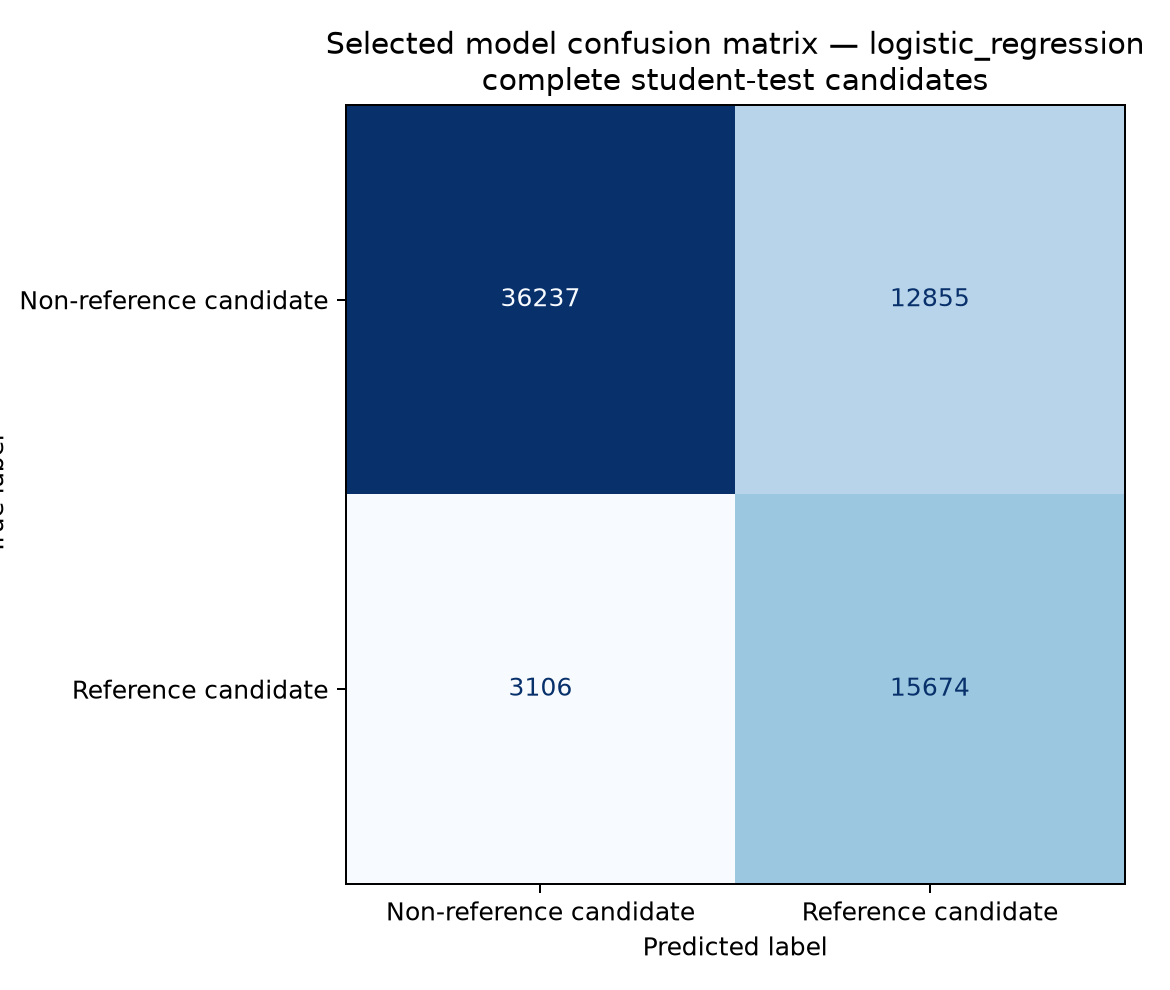
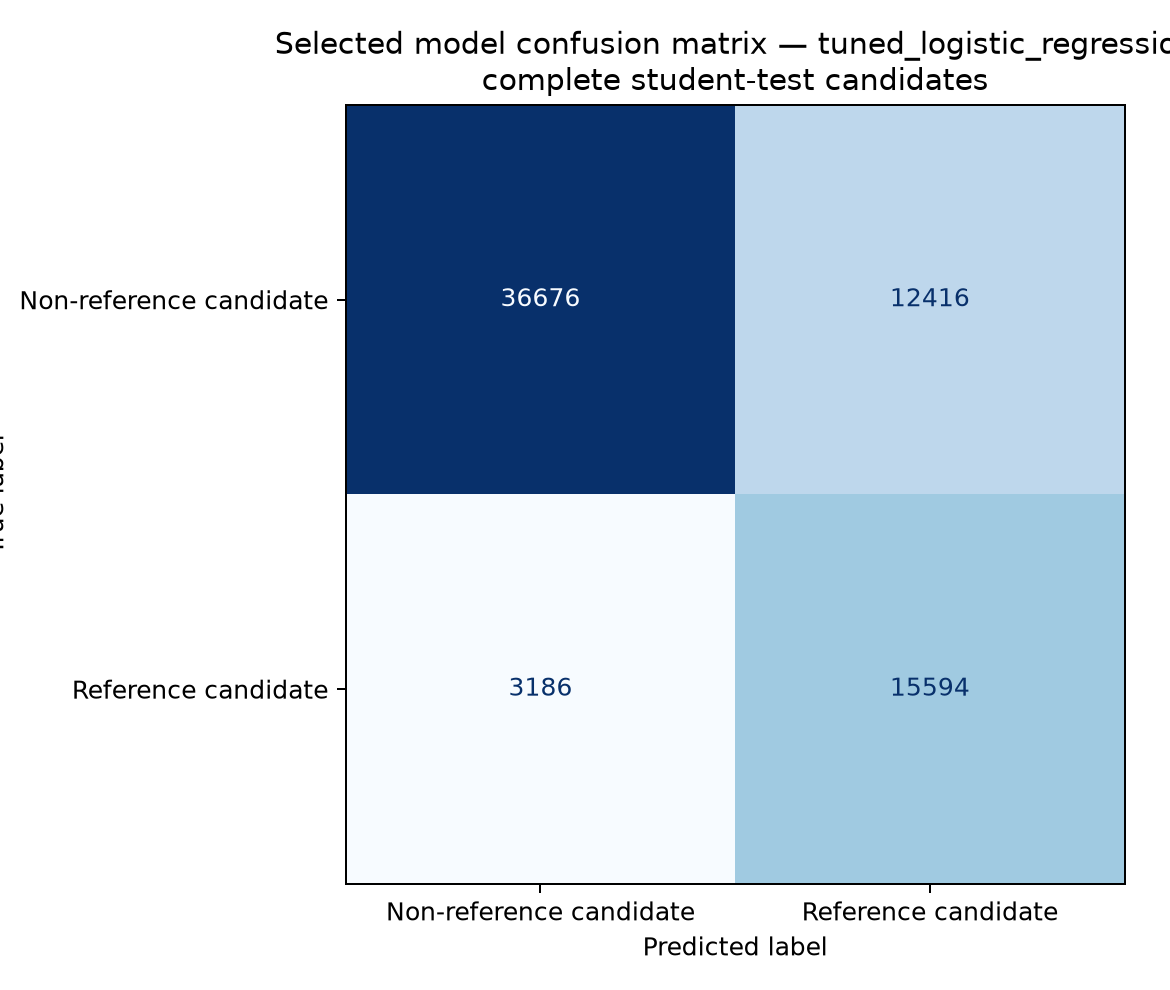
Complete corrected Bayesian optimization

Changed region(s): [[0.2154, 0.0303, 1.0, 0.0606], [0.4615, 0.2727, 0.4923, 0.3333], [0.8, 0.2727, 0.8308, 0.303]]

diff --git a/pathsnap/ml_pipeline/corrected_optimization.py b/pathsnap/ml_pipeline/corrected_optimization.py
@@ -1,0 +1,156 @@
+"""Corrected Bayesian optimization for the selected Logistic Regression model.
+
+The candidate tables are complete. Optuna only sees grouped validation scores;
+negative sampling is performed inside each fold's training partition.
+"""
+
+from __future__ import annotations
+
+import argparse
+import json
+import time
+from pathlib import Path
+
+import numpy as np
+import pandas as pd
+import matplotlib
+
+matplotlib.use("Agg")
+import matplotlib.pyplot as plt
+from sklearn.base import clone
+from sklearn.linear_model import LogisticRegression
+from sklearn.metrics import ConfusionMatrixDisplay, confusion_matrix
+from sklearn.pipeline import Pipeline
+from sklearn.preprocessing import StandardScaler
+
+from pathsnap.data_pipeline.features import FEATURE_NAMES
+from pathsnap.ml_pipeline.artifacts import export_model
+from pathsnap.ml_pipeline.corrected_experiment import complete_partition, evaluate_candidate_rows, sample_training_rows
+
+
+def _model(params: dict, seed: int) -> Pipeline:
+    return Pipeline([
+        ("scale", StandardScaler()),
+        ("model", LogisticRegression(
+            C=float(params["C"]),
+            class_weight=params["class_weight"],
+            max_iter=int(params["max_iter"]),
+            random_state=seed,
+        )),
+    ])
+
+
+def run(root: Path, output_dir: Path, trials: int = 12, folds: int = 3, seed: int = 42, negatives_per_observation: int = 1, max_candidates: int = 4) -> dict:
+    import optuna
+    from sklearn.model_selection import GroupKFold
+
+    train, train_observations = complete_partition(root, "train", max_candidates)
+    student, student_observations = complete_partition(root, "student_test", max_candidates)
+    splitter = GroupKFold(n_splits=folds)
+    output_dir.mkdir(parents=True, exist_ok=True)
+    fold_indices = list(splitter.split(train, train["target"], train["trip_id"]))
+
+    def objective(trial: optuna.Trial) -> float:
+        params = {
+            "C": trial.suggest_float("C", 1e-3, 1e2, log=True),
+            "class_weight": trial.suggest_categorical("class_weight", ["balanced", None]),
+            "max_iter": trial.suggest_int("max_iter", 200, 800, step=100),
+        }
+        scores = []
+        for train_index, validation_index in fold_indices:
+            fold_train = sample_training_rows(train.iloc[train_index], negatives_per_observation)
+            model = _model(params, seed)
+            model.fit(fold_train.loc[:, FEATURE_NAMES], fold_train["target"])
+            validation = train.iloc[validation_index]
+            validation_obs = train_observations[train_observations["trip_id"].isin(validation["trip_id"].unique())]
+            scores.append(evaluate_candidate_rows(model, validation, validation_obs)["macro_f1"])
+        return float(np.mean(scores))
+
+    sampler = optuna.samplers.TPESampler(seed=seed)
+    study = optuna.create_study(direction="maximize", sampler=sampler)
+    started = time.perf_counter()
+    study.optimize(objective, n_trials=trials)
+    elapsed = time.perf_counter() - started
+    study.trials_dataframe().to_csv(output_dir / "corrected_logistic_optuna_trials.csv", index=False)
+
+    baseline_params = {"C": 1.0, "class_weight": "balanced", "max_iter": 400}
+    tuned_params = study.best_params
+    baseline_scores = []
+    tuned_scores = []
+    for train_index, validation_index in fold_indices:
+        fold_train = sample_training_rows(train.iloc[train_index], negatives_per_observation)
+        validation = train.iloc[validation_index]
+        validation_obs = train_observations[train_observations["trip_id"].isin(validation["trip_id"].unique())]
+        baseline = _model(baseline_params, seed)
+        tuned = _model(tuned_params, seed)
+        baseline.fit(fold_train.loc[:, FEATURE_NAMES], fold_train["target"])
+        tuned.fit(fold_train.loc[:, FEATURE_NAMES], fold_train["target"])
+        baseline_scores.append(evaluate_candidate_rows(baseline, validation, validation_obs)["macro_f1"])
+        tuned_scores.append(evaluate_candidate_rows(tuned, validation, validation_obs)["macro_f1"])
+
+    baseline_model = _model(baseline_params, seed)
+    tuned_model = _model(tuned_params, seed)
+    final_train = sample_training_rows(train, negatives_per_observation)
+    baseline_model.fit(final_train.loc[:, FEATURE_NAMES], final_train["target"])
+    tuned_model.fit(final_train.loc[:, FEATURE_NAMES], final_train["target"])
+    baseline_student = evaluate_candidate_rows(baseline_model, student, student_observations)
+    tuned_student = evaluate_candidate_rows(tuned_model, student, student_observations)
+    comparison = pd.DataFrame([
+        {"model": "baseline_logistic_regression", "cv_macro_f1": float(np.mean(baseline_scores)), **baseline_student},
+        {"model": "tuned_logistic_regression", "cv_macro_f1": float(np.mean(tuned_scores)), **tuned_student},
+    ])
+    comparison.to_csv(output_dir / "corrected_logistic_tuned_vs_baseline.csv", index=False)
+    selected = "tuned_logistic_regression" if comparison.loc[1, "cv_macro_f1"] > comparison.loc[0, "cv_macro_f1"] else "baseline_logistic_regression"
+    selected_model = tuned_model if selected == "tuned_logistic_regression" else baseline_model
+    export_model(selected_model, output_dir / "selected_model.joblib", FEATURE_NAMES, {"model_name": selected, "selection_metric": "mean_grouped_cv_macro_f1_after_bayesian_optimization", "candidate_radius_m": 50.0, "max_candidates": max_candidates, "training_sampling": f"all positives plus {negatives_per_observation} negatives per observation"})
+    scores = selected_model.predict_proba(student.loc[:, FEATURE_NAMES])[:, list(selected_model.classes_).index(1)]
+    matrix = confusion_matrix(student["target"], (scores >= 0.5).astype(int), labels=[0, 1])
+    fig, ax = plt.subplots(figsize=(6.5, 5.5))
+    ConfusionMatrixDisplay(matrix, display_labels=["Non-reference candidate", "Reference candidate"]).plot(ax=ax, cmap="Blues", values_format="d", colorbar=False)
+    ax.set_title(f"Selected model confusion matrix — {selected}\ncomplete student-test candidates")
+    fig.tight_layout()
+    fig.savefig(output_dir / "confusion_matrix.png", dpi=180)
+    plt.close(fig)
+    (output_dir / "training_summary.md").write_text(
+        "# Corrected Bayesian-optimized experiment\n\n" + comparison.to_markdown(index=False) +
+        f"\n\nSelected model: **{selected}**, chosen by mean 3-fold GroupKFold validation Macro F1 after Bayesian optimization. "
+        "Negative sampling was used only for training folds/final fit; validation and student-test candidates were complete. "
+        "Zero-candidate observations are reported separately and count as incorrect in all-observation Top-1 accuracy.\n",
+        encoding="utf-8",
+    )
+    summary = {
+        "method": "Optuna TPE with complete-candidate GroupKFold validation",
+        "model": "logistic_regression",
+        "trials": trials,
+        "seed": seed,
+        "folds": folds,
+        "candidate_radius_m": 50.0,
+        "max_candidates": max_candidates,
+        "training_negatives_per_observation": negatives_per_observation,
+        "validation_negative_sampling": None,
+        "student_negative_sampling": None,
+        "best_params": tuned_params,
+        "best_trial_value": float(study.best_value),
+        "baseline_cv_macro_f1": float(np.mean(baseline_scores)),
+        "tuned_cv_macro_f1": float(np.mean(tuned_scores)),
+        "selected_model_artifact": selected,
+        "optimization_seconds": elapsed,
+    }
+    (output_dir / "corrected_logistic_optimization.json").write_text(json.dumps(summary, indent=2), encoding="utf-8")
+    return summary
+
+
+def main() -> None:
+    parser = argparse.ArgumentParser(description=__doc__)
+    parser.add_argument("--data-root", required=True, type=Path)
+    parser.add_argument("--output-dir", default="results/corrected_models", type=Path)
+    parser.add_argument("--trials", default=12, type=int)
+    parser.add_argument("--folds", default=3, type=int)
+    parser.add_argument("--negatives-per-observation", default=1, type=int)
+    parser.add_argument("--max-candidates", default=4, type=int)
+    args = parser.parse_args()
+    print(json.dumps(run(args.data_root, args.output_dir, args.trials, args.folds, negatives_per_observation=args.negatives_per_observation, max_candidates=args.max_candidates), indent=2))
+
+
+if __name__ == "__main__":
+    main()

diff --git a/reports/build_report.py b/reports/build_report.py
@@ -19,6 +19,7 @@ ROOT = Path(__file__).resolve().parents[1]
 def build() -> Path:
     output = ROOT / "reports" / "pathsnap_technical_report.pdf"
     comparison = pd.read_csv(ROOT / "results" / "corrected_models" / "model_comparison.csv")
+    tuned = pd.read_csv(ROOT / "results" / "corrected_models" / "corrected_logistic_tuned_vs_baseline.csv")
     styles = getSampleStyleSheet()
     styles.add(ParagraphStyle(name="ReportTitle", parent=styles["Title"], alignment=TA_CENTER, spaceAfter=18))
     styles.add(ParagraphStyle(name="Small", parent=styles["BodyText"], fontSize=8, leading=10))
@@ -38,7 +39,8 @@ def build() -> Path:
         data.append([str(row["model"]).replace("_", " ").title(), f"{row['cv_macro_f1']:.6f}", f"{row['macro_f1']:.6f}", f"{row['top1_accuracy_all_observations']:.6f}", f"{row['log_loss']:.6f}", f"{row['inference_ms_per_candidate']:.6f}"])
     table = Table(data, repeatRows=1, colWidths=[1.35 * inch, .9 * inch, 1.05 * inch, 1.0 * inch, .75 * inch, .9 * inch])
     table.setStyle(TableStyle([("BACKGROUND", (0, 0), (-1, 0), colors.HexColor("#1f4e79")), ("TEXTCOLOR", (0, 0), (-1, 0), colors.white), ("GRID", (0, 0), (-1, -1), .25, colors.grey), ("FONTSIZE", (0, 0), (-1, -1), 7), ("ALIGN", (1, 1), (-1, -1), "RIGHT")]))
-    story.extend([table, Spacer(1, 8), Paragraph("Logistic Regression is selected by the highest corrected CV Macro F1 (0.7295715568). Student metrics support the choice but do not define it.", styles["BodyText"]), PageBreak()])
+    tuned_row = tuned.loc[tuned["model"].eq("tuned_logistic_regression")].iloc[0]
+    story.extend([table, Spacer(1, 8), Paragraph(f"Corrected Bayesian optimization improved Logistic Regression CV Macro F1 from {tuned.loc[tuned['model'].eq('baseline_logistic_regression'), 'cv_macro_f1'].iloc[0]:.6f} to {tuned_row['cv_macro_f1']:.6f}. The tuned artifact is selected; its student Macro F1 is {tuned_row['macro_f1']:.6f} and complete-candidate Top-1 is {tuned_row['top1_accuracy_all_observations']:.6f}.", styles["BodyText"]), PageBreak()])
     story.extend([Paragraph("4. HMM/Viterbi and limitations", styles["Heading2"]), Paragraph("Hidden states are candidate arc IDs. Emissions combine classifier probability with distance; transitions reward same-arc and directed-connected moves, while disconnected transitions receive a finite penalty. Empty candidate groups produce null outputs and reset decoding. Reference labels are a nearest-route-arc heuristic, so parallel roads, GPS noise, incomplete routes, and repeated arcs remain limitations. See docs/label_quality.md and results/corrected_models/label_quality.csv.", styles["BodyText"]), Spacer(1, 10)])
     for image_path, caption in [(ROOT / "results" / "corrected_models" / "model_comparison.png", "Corrected CV Macro F1 comparison"), (ROOT / "results" / "plots" / "gps_speed_distribution.png", "GPS speed distribution"), (ROOT / "results" / "plots" / "gps_matched_route_map.png", "Folium map screenshot; interactive HTML is committed separately")]:
         if image_path.exists():

diff --git a/results/corrected_models/training_summary.md b/results/corrected_models/training_summary.md
@@ -1,11 +1,8 @@
-# Corrected five-model experiment
+# Corrected Bayesian-optimized experiment
 
-| model                  |   cv_macro_f1 |   accuracy |   precision |   recall |   macro_f1 |   top1_accuracy_with_candidates |   top1_accuracy_all_observations |   candidate_miss_rate |   zero_candidate_observations |   total_observations |   candidate_rows |   log_loss |   inference_ms_per_candidate |   training_seconds |
-|:-----------------------|--------------:|-----------:|------------:|---------:|-----------:|--------------------------------:|---------------------------------:|----------------------:|------------------------------:|---------------------:|-----------------:|-----------:|-----------------------------:|-------------------:|
-| logistic_regression    |      0.729572 |   0.764837 |    0.549406 | 0.834611 |   0.74107  |                        0.763518 |                         0.763518 |              0.019833 |                             0 |                19160 |            67872 |    0.4628  |                  0.00115187  |            3.06881 |
-| hist_gradient_boosting |      0.450623 |   0.472566 |    0.323684 | 0.831789 |   0.472487 |                        0.233925 |                         0.233925 |              0.019833 |                             0 |                19160 |            67872 |    3.56533 |                  0.00435174  |           19.7451  |
-| mlp                    |      0.450534 |   0.468942 |    0.322262 | 0.833387 |   0.46891  |                        0.234812 |                         0.234812 |              0.019833 |                             0 |                19160 |            67872 |    3.72035 |                  0.000956462 |           35.8556  |
-| knn                    |      0.448107 |   0.464256 |    0.315965 | 0.803674 |   0.464052 |                        0.430271 |                         0.430271 |              0.019833 |                             0 |                19160 |            67872 |   15.5425  |                  0.136254    |          105.484   |
-| random_forest          |      0.446602 |   0.466702 |    0.320031 | 0.824547 |   0.466644 |                        0.325992 |                         0.325992 |              0.019833 |                             0 |                19160 |            67872 |    4.97179 |                  0.00380225  |           45.8529  |
+| model                        |   cv_macro_f1 |   accuracy |   precision |   recall |   macro_f1 |   top1_accuracy_with_candidates |   top1_accuracy_all_observations |   candidate_miss_rate |   zero_candidate_observations |   total_observations |   candidate_rows |   log_loss |
+|:-----------------------------|--------------:|-----------:|------------:|---------:|-----------:|--------------------------------:|---------------------------------:|----------------------:|------------------------------:|---------------------:|-----------------:|-----------:|
+| baseline_logistic_regression |      0.729572 |   0.764837 |    0.549406 | 0.834611 |   0.74107  |                        0.763518 |                         0.763518 |              0.019833 |                             0 |                19160 |            67872 |   0.4628   |
+| tuned_logistic_regression    |      0.733687 |   0.770126 |    0.55673  | 0.830351 |   0.745579 |                        0.764301 |                         0.764301 |              0.019833 |                             0 |                19160 |            67872 |   0.456162 |
 
-Selected model: **logistic_regression**, chosen by mean 3-fold GroupKFold validation Macro F1. Training negatives were sampled only inside each training fold/final fit; validation and student-test candidates were complete. Zero-candidate observations are reported separately and count as incorrect in 	op1_accuracy_all_observations.
+Selected model: **tuned_logistic_regression**, chosen by mean 3-fold GroupKFold validation Macro F1 after Bayesian optimization. Negative sampling was used only for training folds/final fit; validation and student-test candidates were complete. Zero-candidate observations are reported separately and count as incorrect in all-observation Top-1 accuracy.

diff --git a/docs/corrected_bayesian_optimization.md b/docs/corrected_bayesian_optimization.md
@@ -1,0 +1,31 @@
+# Corrected Bayesian optimization
+
+Bayesian optimization was completed after the corrected five-model baseline. It optimizes the selected Logistic
+Regression family rather than the historical HGB experiment. Optuna TPE uses seed 42 and 3-fold GroupKFold grouped by
+trip ID. Each trial samples negatives only from its training fold; validation and student-test frames remain complete.
+
+Search space:
+
+- `C`: log-uniform from `1e-3` to `1e2`
+- `class_weight`: `balanced` or `None`
+- `max_iter`: 200–800 in steps of 100
+
+The raw trial log is [corrected_logistic_optuna_trials.csv](../results/corrected_models/corrected_logistic_optuna_trials.csv).
+The summary and exact best parameters are [corrected_logistic_optimization.json](../results/corrected_models/corrected_logistic_optimization.json),
+and the complete comparison is [corrected_logistic_tuned_vs_baseline.csv](../results/corrected_models/corrected_logistic_tuned_vs_baseline.csv).
+
+The corrected baseline remains the selected artifact unless the tuned model improves mean grouped validation Macro F1;
+the selection decision is recorded in the JSON summary and model manifest. The earlier HGB Optuna outputs under
+`results/optimization/` are preserved as historical evidence and are not mixed into this corrected comparison.
+
+Reproduce with:
+
+```powershell
+python -m pathsnap.ml_pipeline.corrected_optimization `
+  --data-root "Student folder\Student folder" `
+  --output-dir results\corrected_models `
+  --trials 12 `
+  --folds 3 `
+  --negatives-per-observation 1 `
+  --max-candidates 4
+```

diff --git a/reports/pathsnap_technical_report.md b/reports/pathsnap_technical_report.md
@@ -24,10 +24,11 @@ validation and student-test candidate tables are complete. The student set conta
 candidate rows. No student observation had zero candidates in this run. The full corrected table is in
 `results/corrected_models/model_comparison.csv`.
 
-The selected model is Logistic Regression because it has the highest corrected CV Macro F1 (0.7295715568). It also
-has the strongest student Macro F1 and Top-1 accuracy in the complete-candidate evaluation. The prior sampled-student
-results under `results/models/` are preserved but are not directly comparable because their evaluation population was
-different.
+The baseline selected Logistic Regression by corrected CV Macro F1 (0.7295715568). Corrected Bayesian optimization
+then improved the grouped-CV score to 0.7336865386 (`C=0.0010660012`, no class weighting, `max_iter=700`). The tuned
+artifact is the selected deployment model; its complete-candidate student Macro F1 is 0.745579 and Top-1 is 0.764301.
+The prior sampled-student results under `results/models/` are preserved but are not directly comparable because their
+evaluation population was different.
 
 ## 4. Model-specific interpretation
 

diff --git a/docs/corrected_experiment.md b/docs/corrected_experiment.md
@@ -25,7 +25,7 @@ The complete table is [model_comparison.csv](../results/corrected_models/model_c
 | KNN | 0.448107 | 0.464052 | 0.430271 | 15.542463 | 0.136254 |
 | Random Forest | 0.446602 | 0.466644 | 0.325992 | 4.971794 | 0.003802 |
 
-Logistic Regression is selected because it has the highest corrected GroupKFold Macro F1 (0.7295715568). Its student Top-1 and Macro F1 are also strongest, while its log loss and inference time are practical. This selection is based on cross-validation first, with student results used only as supporting evidence.
+The baseline comparison selects Logistic Regression because it has the highest corrected GroupKFold Macro F1 (0.7295715568). The subsequent corrected Bayesian optimization improved that CV score to 0.7336865386 with `C=0.0010660012`, `class_weight=None`, and `max_iter=700`. The tuned artifact is now the selected model; its student Macro F1 is 0.745579 and complete-candidate Top-1 is 0.764301. The optimization comparison is [corrected_logistic_tuned_vs_baseline.csv](../results/corrected_models/corrected_logistic_tuned_vs_baseline.csv).
 
 ## Why the numbers changed
 

diff --git a/README.md b/README.md
@@ -48,6 +48,20 @@ python -m pathsnap.ml_pipeline.corrected_experiment `
 The verified selected artifact is `results/corrected_models/selected_model.joblib`; its feature manifest is beside it.
 The prior artifacts under `pathsnap/ml_pipeline/artifacts/` and prior result CSVs remain available for comparison.
 
+Corrected Bayesian optimization for the selected Logistic Regression model is reproducible with:
+
+```powershell
+python -m pathsnap.ml_pipeline.corrected_optimization `
+  --data-root "Student folder\Student folder" `
+  --output-dir results\corrected_models `
+  --trials 12 `
+  --folds 3 `
+  --negatives-per-observation 1 `
+  --max-candidates 4
+```
+
+Its trial log and tuned-vs-baseline comparison are saved beside the corrected model results.
+
 ## API
 
 Use the corrected artifact explicitly when starting the service:
